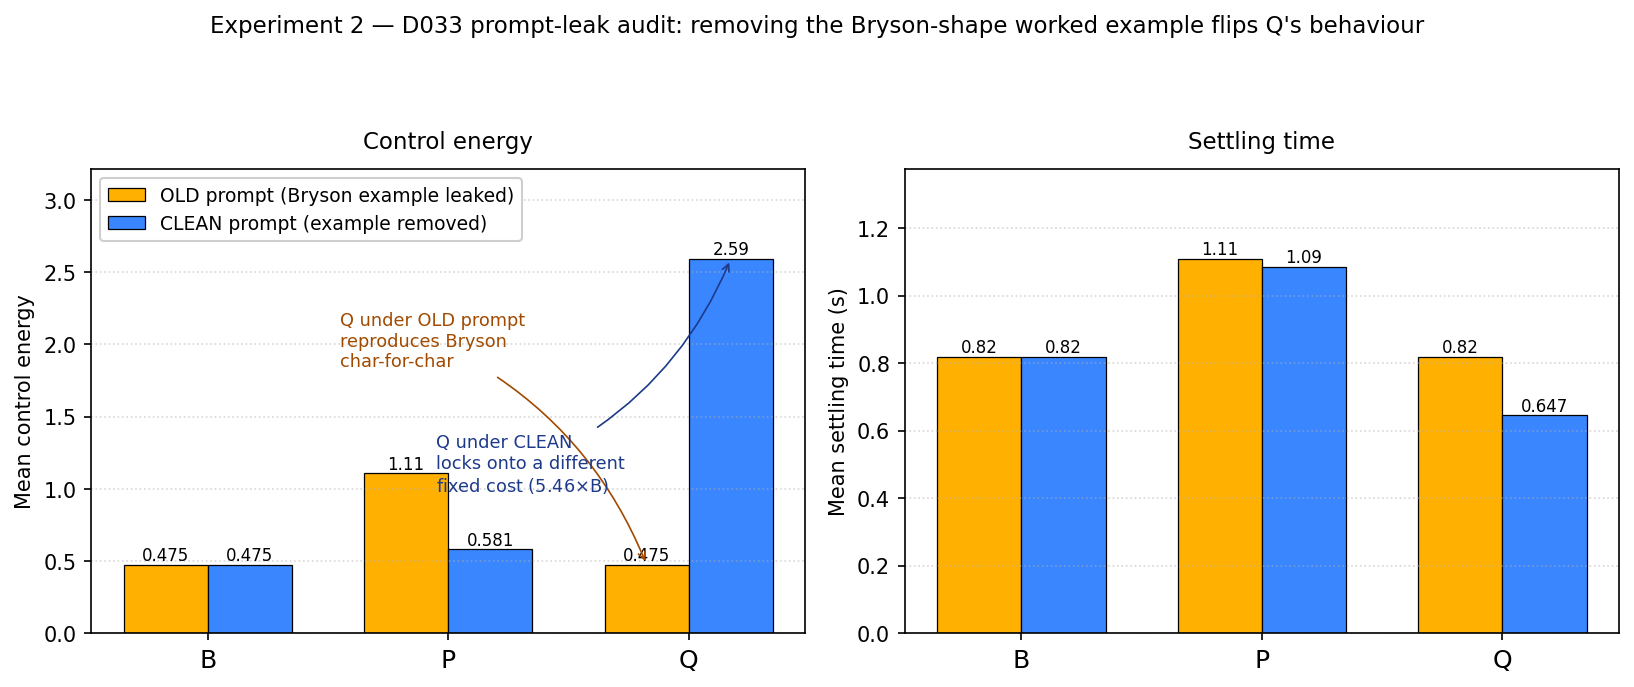
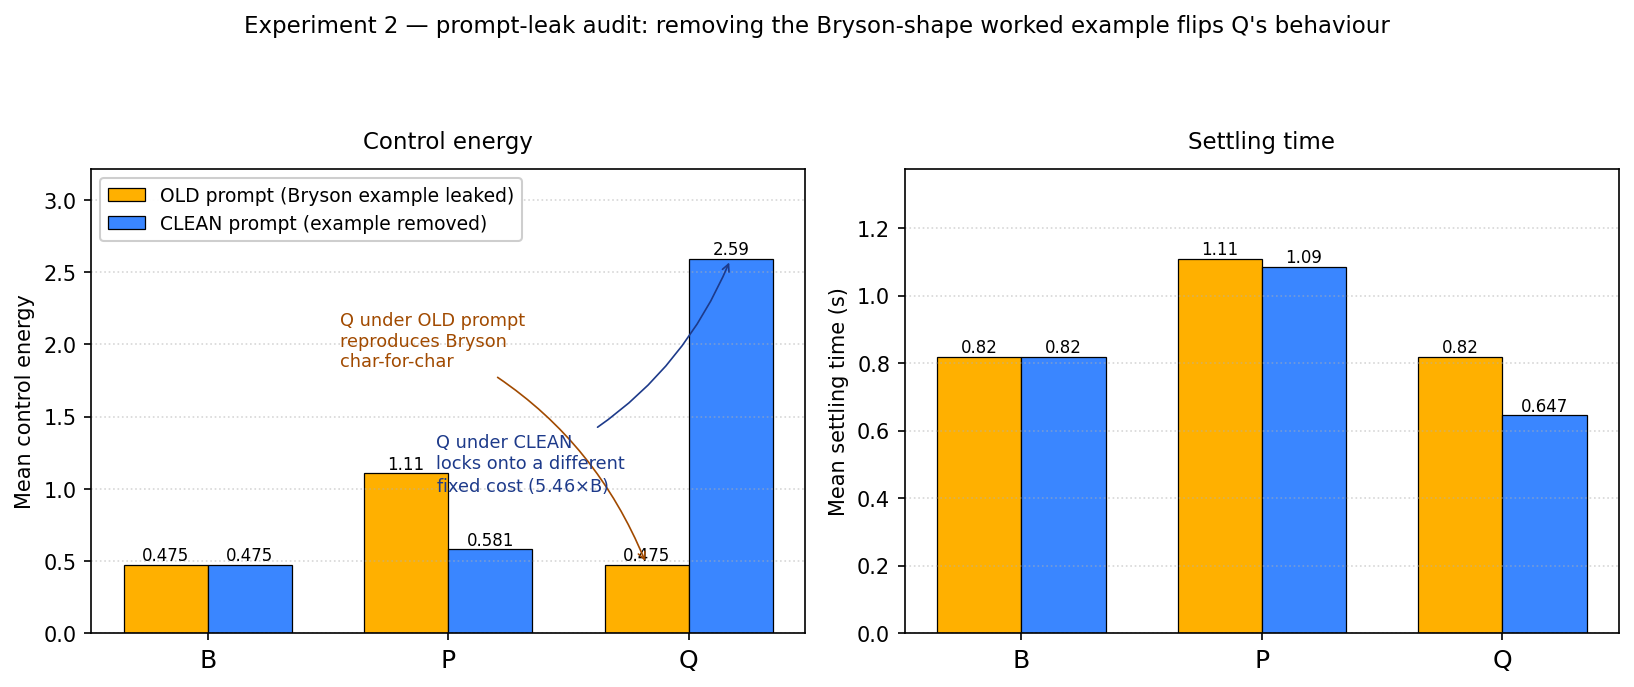
fix: drop internal decision-log tag from E2 figure titles
The two E2 figure suptitles still carried the internal "D033" decision
tag, which is meaningless to a reader. Removed it from both titles to
match the rest of the figure set (the E3/cost-latency tags were already
removed); regenerated both PNGs. Layout unchanged.

Changed region(s): [[0.1248, 0.0, 0.8739, 0.0611]]

diff --git a/scripts/figure_e2_prompt_leak.py b/scripts/figure_e2_prompt_leak.py
@@ -114,7 +114,7 @@ def main() -> None:
     )
 
     fig.suptitle(
-        "Experiment 2 — D033 prompt-leak audit: removing the Bryson-shape "
+        "Experiment 2 — prompt-leak audit: removing the Bryson-shape "
         "worked example flips Q's behaviour",
         fontsize=11, y=0.99,
     )

diff --git a/scripts/figure_e2_multi_seed_cv.py b/scripts/figure_e2_multi_seed_cv.py
@@ -119,7 +119,7 @@ def main() -> None:
     )
 
     fig.suptitle(
-        "Experiment 2 — D033: Q is prompt-deterministic (CV = 0%); "
+        "Experiment 2 — Q is prompt-deterministic (CV = 0%); "
         "P samples a meaningful distribution",
         fontsize=11, y=0.99,
     )
